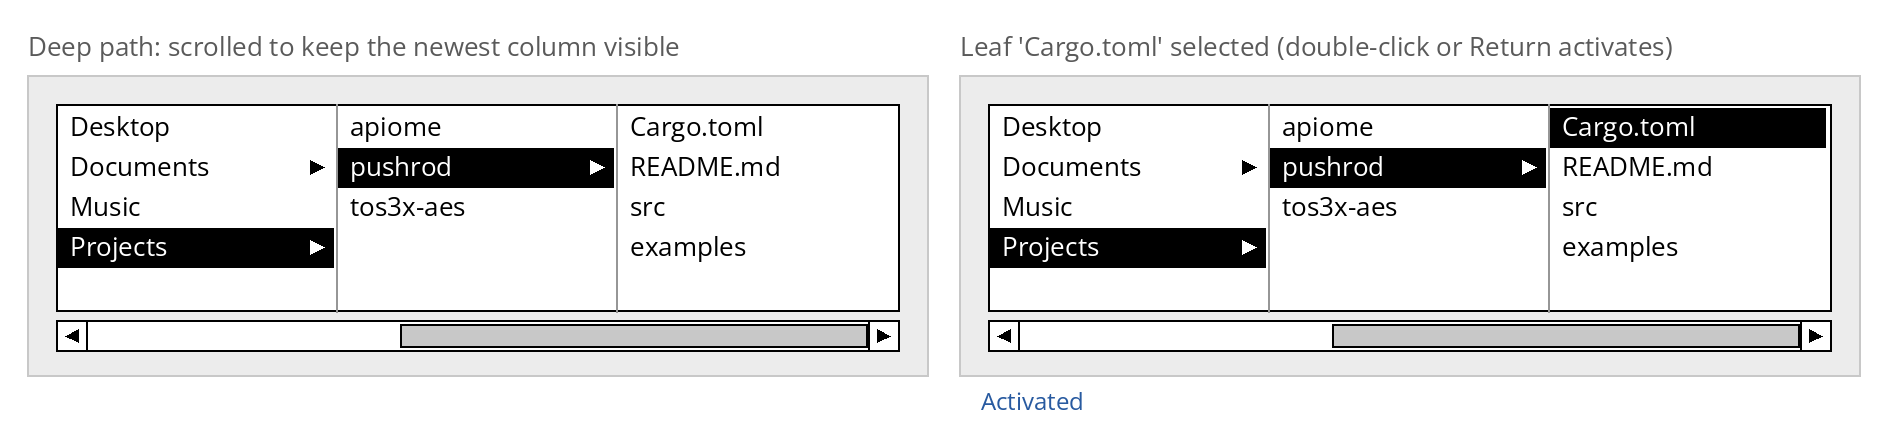
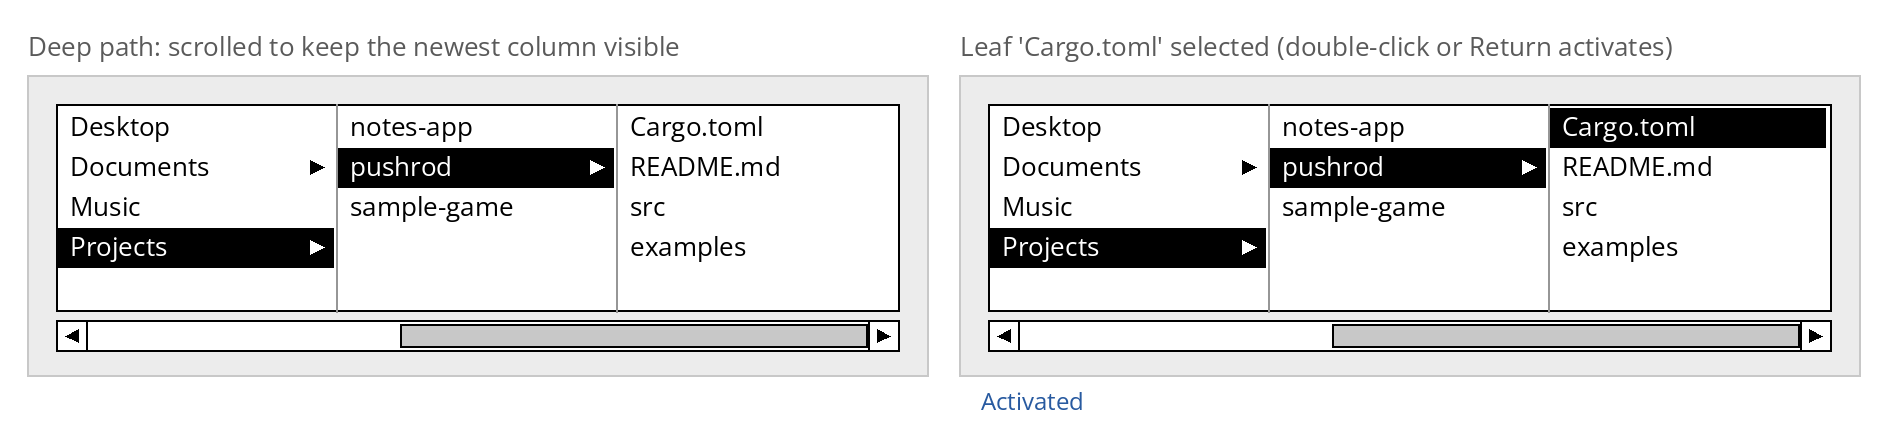
docs: replace personal data in mockups with fictional placeholders
Claude-Session: https://claude.ai/code/session_014QbAny3BSUJNBZtu6oJccA

diff --git a/docs/mockups/generate.py b/docs/mockups/generate.py
@@ -12,6 +12,10 @@ Needs:  Pillow  (pip install pillow)
 
 To change a mockup, edit the frame functions below and re-run; keep frames
 simple so they stay faithful to what Pushrod can draw.
+
+Sample data must be fictional: no real names, e-mail addresses, places,
+paths, or other personal information. Use placeholders such as "Jane Doe",
+"jane.doe@example.com", "Anytown", and "/home/user" (see CONTRIBUTING.md).
 """
 import os
 from PIL import Image, ImageDraw, ImageFont
@@ -364,10 +368,10 @@ def radios():
 def text_field():
     steps = [("1. Empty", dict(text="", placeholder="Your name"), None),
              ("2. Focused", dict(text="", caret=0, focused=True), None),
-             ("3. Typing", dict(text="Ken", caret=3, focused=True), "TextChanged"),
-             ("4. Selection", dict(text="Ken", sel=(1, 3), focused=True), None),
-             ("5. Invalid key rejected", dict(text="Ken", caret=3, focused=True), "no change"),
-             ("6. Disabled", dict(text="Ken", disabled=True), None)]
+             ("3. Typing", dict(text="Jane", caret=4, focused=True), "TextChanged"),
+             ("4. Selection", dict(text="Jane", sel=(1, 4), focused=True), None),
+             ("5. Invalid key rejected", dict(text="Jane", caret=4, focused=True), "no change"),
+             ("6. Disabled", dict(text="Jane", disabled=True), None)]
     out = []
     for lab, kw, note in steps:
         c = C(250, 56); x = c.labeled(12, 17, "Name:", 54); c.field(x, 17, 170, **kw); out.append((lab, c, note))
@@ -456,7 +460,7 @@ def menus():
 @sb("2.12")
 def file_chooser():
     c = C(470, 330); c.window(10, 10, 450, 310, "Open")
-    x = c.labeled(26, 46, "Folder:", 62); c.field(x, 44, 360, "/home/ken/projects")
+    x = c.labeled(26, 46, "Folder:", 62); c.field(x, 44, 360, "/home/user/projects")
     x = c.labeled(26, 76, "Filter:", 62); c.field(x, 74, 120, "*.rs")
     c.listbox(26, 108, 418, ["..", "src/", "main.rs", "lib.rs", "build.rs", "README.md"], selected={2})
     x = c.labeled(26, 240, "Name:", 62); c.field(x, 238, 360, "main.rs")
@@ -520,7 +524,7 @@ def switch():
 @sb("2.18")
 def text_area():
     c = C(360, 120); c.rect(14, 12, 320, 96, fill=WHITE); c.scrollbar(334, 12, 96, True, 0.0, 0.4)
-    c.text(20, 16, "Dear Ken,"); c.text(20, 36, "Thanks for the ")
+    c.text(20, 16, "Dear Customer,"); c.text(20, 36, "Thanks for the ")
     sx = 20 + c.tw("Thanks for the "); sel = "quick update"
     c.rect(int(sx), 39, int(c.tw(sel)) + 1, 17, fill=BLACK, outline=None); c.text(sx, 36, sel, WHITE)
     c.text(20, 56, "on the release."); c.line(20 + c.tw("on the release."), 59, 20 + c.tw("on the release."), 74)
@@ -752,10 +756,10 @@ def composite_parts():
 
 
 TREE = {(): ["Applications", "Library", "System", "Users"],
-        ("Users",): ["ken", "guest", "shared"],
-        ("Users", "ken"): ["Desktop", "Documents", "Music", "Projects"],
-        ("Users", "ken", "Projects"): ["apiome", "pushrod", "tos3x-aes"],
-        ("Users", "ken", "Projects", "pushrod"): ["Cargo.toml", "README.md", "src", "examples"]}
+        ("Users",): ["user", "guest", "shared"],
+        ("Users", "user"): ["Desktop", "Documents", "Music", "Projects"],
+        ("Users", "user", "Projects"): ["notes-app", "pushrod", "sample-game"],
+        ("Users", "user", "Projects", "pushrod"): ["Cargo.toml", "README.md", "src", "examples"]}
 LEAVES = {"Cargo.toml", "README.md"}
 
 def _browser(c, x, y, path, ncols_visible=3, colw=140, rows=5, offset=0):
@@ -774,7 +778,7 @@ def _browser(c, x, y, path, ncols_visible=3, colw=140, rows=5, offset=0):
             if hot: c.rect(cx, ry, colw - 2, 20, fill=BLACK, outline=None)
             col = WHITE if hot else BLACK
             c.text(cx + 6, ry, it, col, 13)
-            branch = tuple(list(p) + [it]) in TREE or (it not in LEAVES and it not in ("Desktop", "Music", "guest", "shared", "Library", "System", "Applications", "apiome", "tos3x-aes", "src", "examples"))
+            branch = tuple(list(p) + [it]) in TREE or (it not in LEAVES and it not in ("Desktop", "Music", "guest", "shared", "Library", "System", "Applications", "notes-app", "sample-game", "src", "examples"))
             if branch: c.tri(cx + colw - 14, ry + 6, 7, "right", col)
         if n < ncols_visible - 1: c.line(cx + colw - 1, y, cx + colw - 1, y + rows * 20 + 4, MID)
     return total_w
@@ -784,15 +788,15 @@ def browser_steps():
     out = []
     for lab, path, note in [("1. Root column", [], None),
                             ("2. 'Users' selected: column 1 appears", ["Users"], "SelectionChanged (path /Users)"),
-                            ("3. 'ken' selected: column 2 appears", ["Users", "ken"], "SelectionChanged (path /Users/ken)")]:
+                            ("3. 'user' selected: column 2 appears", ["Users", "user"], "SelectionChanged (path /Users/user)")]:
         c = C(450, 130); _browser(c, 14, 14, path); out.append((lab, c, note))
     return out
 
 @sb("3.7", 2)
 def browser_scroll():
-    c = C(450, 150); _browser(c, 14, 14, ["Users", "ken", "Projects", "pushrod"], offset=2)
+    c = C(450, 150); _browser(c, 14, 14, ["Users", "user", "Projects", "pushrod"], offset=2)
     c.scrollbar(14, 122, 422, False, 1.0, 0.6)
-    c2 = C(450, 150); _browser(c2, 14, 14, ["Users", "ken", "Projects", "pushrod", "Cargo.toml"], offset=2)
+    c2 = C(450, 150); _browser(c2, 14, 14, ["Users", "user", "Projects", "pushrod", "Cargo.toml"], offset=2)
     c2.scrollbar(14, 122, 422, False, 1.0, 0.6)
     return [("Deep path: scrolled to keep the newest column visible", c, None),
             ("Leaf 'Cargo.toml' selected (double-click or Return activates)", c2, "Activated")]
@@ -905,7 +909,7 @@ def row_column():
 
 @sb("5.7")
 def form_layout():
-    rows = [("Name:", "Ken"), ("Email address:", "ken@example.com"), ("City:", "Denver")]
+    rows = [("Name:", "Jane Doe"), ("Email address:", "jane.doe@example.com"), ("City:", "Anytown")]
     a = C(460, 170); a.window(0, 0, 460, 170, "Profile")
     lw = max(a.tw(r[0]) for r in rows)
     for n, (l, v) in enumerate(rows):
